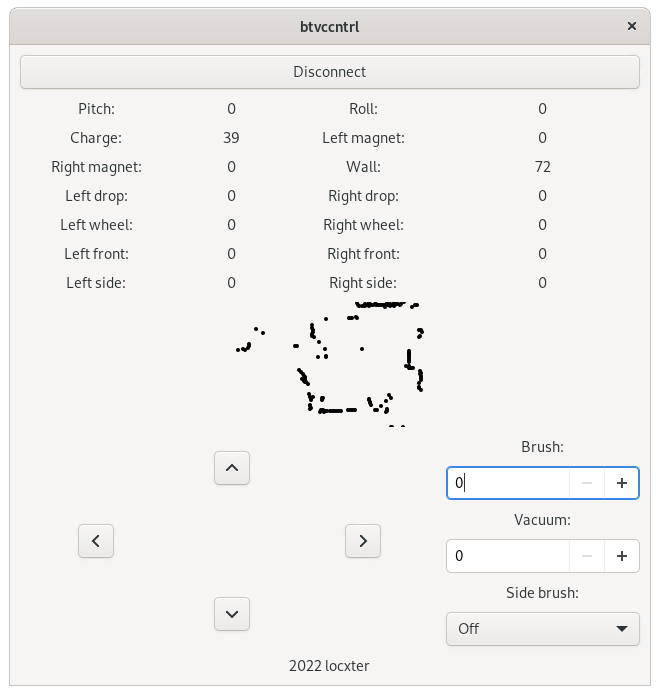
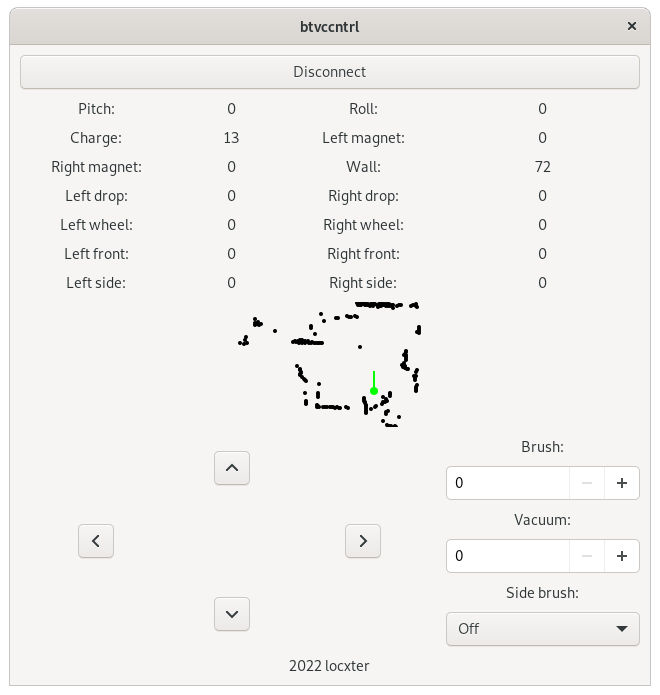
Added the robot and it's movement direction to the visualisation.

diff --git a/lib/visualisation.cpp b/lib/visualisation.cpp
@@ -30,6 +30,7 @@ bool Visualisation::on_draw(const Cairo::RefPtr<Cairo::Context>& context) {
         int yMinCoordinate = 0;
         int yMaxCoordinate = 0;
         int yRange;
+        int maxRange;
         for (int i = 0; i < map.size(); i++) {
             if (map[i][0] < xMinCoordinate) {
                 xMinCoordinate = map[i][0];
@@ -44,6 +45,7 @@ bool Visualisation::on_draw(const Cairo::RefPtr<Cairo::Context>& context) {
         }
         xRange = std::abs(xMinCoordinate) + std::abs(xMaxCoordinate);
         yRange = std::abs(yMinCoordinate) + std::abs(yMaxCoordinate);
+        maxRange = std::max(xRange, yRange);
         if ((float) width / height > (float) xRange / yRange) {
             scalingRatio = (float) height / yRange;
             context->translate(std::round((width - getScaledValue(xRange)) / 2), 0);
@@ -54,19 +56,37 @@ bool Visualisation::on_draw(const Cairo::RefPtr<Cairo::Context>& context) {
         // Draw the points
         context->set_source_rgb(0, 0, 0);
         for (int i = 0; i < map.size(); i++) {
-            if (xMinCoordinate <= 0) {
+            if (xMinCoordinate < 0) {
                 map[i][0] += std::abs(xMinCoordinate);
             } else {
                 map[i][0] -= xMinCoordinate;
             }
-            if (yMinCoordinate <= 0) {
+            if (yMinCoordinate < 0) {
                 map[i][1] += std::abs(yMinCoordinate);
             } else {
                 map[i][1] -= yMinCoordinate;
             }
-            context->arc(getScaledValue(map[i][0]), getScaledValue(yRange - map[i][1]), std::max(getScaledValue(std::round(yRange * 0.005)), 2), 0, 2 * M_PI);
+            context->arc(getScaledValue(map[i][0]), getScaledValue(yRange - map[i][1]), std::max(getScaledValue(std::round(maxRange * 0.005)), 2), 0, 2 * M_PI);
             context->fill();
         }
+        // Draw the robot position and it's direction
+        if (xMinCoordinate < 0) {
+            xCoordinate += std::abs(xMinCoordinate);
+        } else {
+            xCoordinate -= xMinCoordinate;
+        }
+        if (yMinCoordinate < 0) {
+            yCoordinate += std::abs(yMinCoordinate);
+        } else {
+            yCoordinate -= yMinCoordinate;
+        }
+        context->set_source_rgb(0, 255, 0);
+        context->arc(getScaledValue(xCoordinate), getScaledValue(yRange - yCoordinate), std::max(getScaledValue(std::round(maxRange * 0.01)), 4), 0, 2 * M_PI);
+        context->fill();
+        context->set_line_width(std::max(getScaledValue(std::round(maxRange * 0.005)), 2));
+        context->move_to(getScaledValue(xCoordinate), getScaledValue(yRange - yCoordinate));
+        context->line_to(getScaledValue(xCoordinate) + std::round(std::max(getScaledValue(std::round(maxRange * 0.05)), 20) * std::sin((180 - angle) * (M_PI / 180.0))), getScaledValue(yRange - yCoordinate) + std::round(std::max(getScaledValue(std::round(maxRange * 0.05)), 20) * std::cos((180 - angle) * (M_PI / 180.0))));
+        context->stroke();
     }
     return true;
 }
@@ -76,10 +96,13 @@ Visualisation::Visualisation() : Gtk::DrawingArea() {
 }
 
 // Method to update the visualisation
-void Visualisation::showVisualisation(std::vector<std::vector<int>> map) {
+void Visualisation::showVisualisation(std::vector<std::vector<int>> map, int xCoordinate, int yCoordinate, int angle) {
     if (showStartScreen) {
         showStartScreen = false;
     }
     this->map = map;
+    this->xCoordinate = xCoordinate;
+    this->yCoordinate = yCoordinate;
+    this->angle = angle;
     queue_draw();
 }

diff --git a/main.cpp b/main.cpp
@@ -100,11 +100,9 @@ int main(int argc, char** argv) {
             botvacController.moveRobot(-350, 175);
         });
         brushInput.signal_value_changed().connect([&]() {
-            std::cout << "Brush: " << brushInput.get_value() << std::endl;
             botvacController.controlBrush(std::round(brushInput.get_value()));
         });
         vacuumInput.signal_value_changed().connect([&]() {
-            std::cout << "Vacuum: " << vacuumInput.get_value() << std::endl;
             botvacController.controlVacuum(std::round(vacuumInput.get_value()));
         });
         sideBrushInput.signal_changed().connect([&]() {
@@ -117,11 +115,11 @@ int main(int argc, char** argv) {
         // Create a background function for updating the map and it's visualisation
         Glib::signal_timeout().connect([&]() -> bool {
             if (botvacController.IsOpen()) {
-                const int SIMILARITY_THRESHOLD = 40;
                 std::vector<std::vector<int>> scan = botvacController.getLidarScan();
                 for (int i = 0; i < scan.size(); i++) {
                     bool uniqueCoordinates = true;
                     for (int j = 0; j < map.size(); j++) {
+                        const int SIMILARITY_THRESHOLD = 40;
                         if ((scan[i][0] > map[j][0] - SIMILARITY_THRESHOLD && scan[i][0] < map[j][0] + SIMILARITY_THRESHOLD) && (scan[i][1] > map[j][1] - SIMILARITY_THRESHOLD && scan[i][1] < map[j][1] + SIMILARITY_THRESHOLD)) {
                             uniqueCoordinates = false;
                         }
@@ -131,7 +129,7 @@ int main(int argc, char** argv) {
                     }
                 }
                 if (!map.empty()) {
-                    visualisation.showVisualisation(map);
+                    visualisation.showVisualisation(map, botvacController.getXCoordinate(), botvacController.getYCoordinate(), botvacController.getAngle());
                 }
                 pitchData.set_label(std::to_string((int) std::round(botvacController.getPitch())));
                 rollData.set_label(std::to_string((int) std::round(botvacController.getRoll())));
@@ -149,7 +147,7 @@ int main(int argc, char** argv) {
                 rightSideData.set_label(std::to_string(botvacController.isRightSideBumperPressed()));
             }
             return true;
-        }, 4000);
+        }, 2000);
         // Create the main grid
         grid.set_column_spacing(10);
         grid.set_row_spacing(10);

diff --git a/lib/visualisation.hpp b/lib/visualisation.hpp
@@ -11,6 +11,9 @@ class Visualisation : public Gtk::DrawingArea {
     float scalingRatio;
     bool showStartScreen = true;
     std::vector<std::vector<int>> map;
+    int xCoordinate = 0;
+    int yCoordinate = 0;
+    int angle = 0;
 
     // Helper method to transform an unscaled value to a scaled one
     int getScaledValue(int unscaledValue);
@@ -24,6 +27,6 @@ class Visualisation : public Gtk::DrawingArea {
     Visualisation();
 
     // Method to update the visualisation
-    void showVisualisation(std::vector<std::vector<int>> map);
+    void showVisualisation(std::vector<std::vector<int>> map, int xCoordinate, int yCoordinate, int angle);
 };
 #endif

diff --git a/lib/botvac-controller.hpp b/lib/botvac-controller.hpp
@@ -10,13 +10,20 @@ class BotvacController : public LibSerial::SerialStream {
     private:
     // Attributes
     std::string input;
-    int angle = 0;
     int xCoordinate = 0;
     int yCoordinate = 0;
+    int angle = 0;
 
     public:
     // Constructor
     BotvacController();
+
+    // Getter
+    int getAngle();
+
+    int getXCoordinate();
+
+    int getYCoordinate();
 
     // Method to initialize the robot for further operation
     void initialize(std::string serialPort);

diff --git a/lib/botvac-controller.cpp b/lib/botvac-controller.cpp
@@ -5,6 +5,19 @@ BotvacController::BotvacController() : LibSerial::SerialStream() {
     std::setlocale(LC_ALL, "C");
 }
 
+// Getter
+int BotvacController::getAngle() {
+    return angle;
+}
+
+int BotvacController::getXCoordinate() {
+    return xCoordinate;
+}
+
+int BotvacController::getYCoordinate() {
+    return yCoordinate;
+}
+
 // Method to initialize the robot for further operation
 void BotvacController::initialize(std::string serialPort) {
     if (!IsOpen()) {
